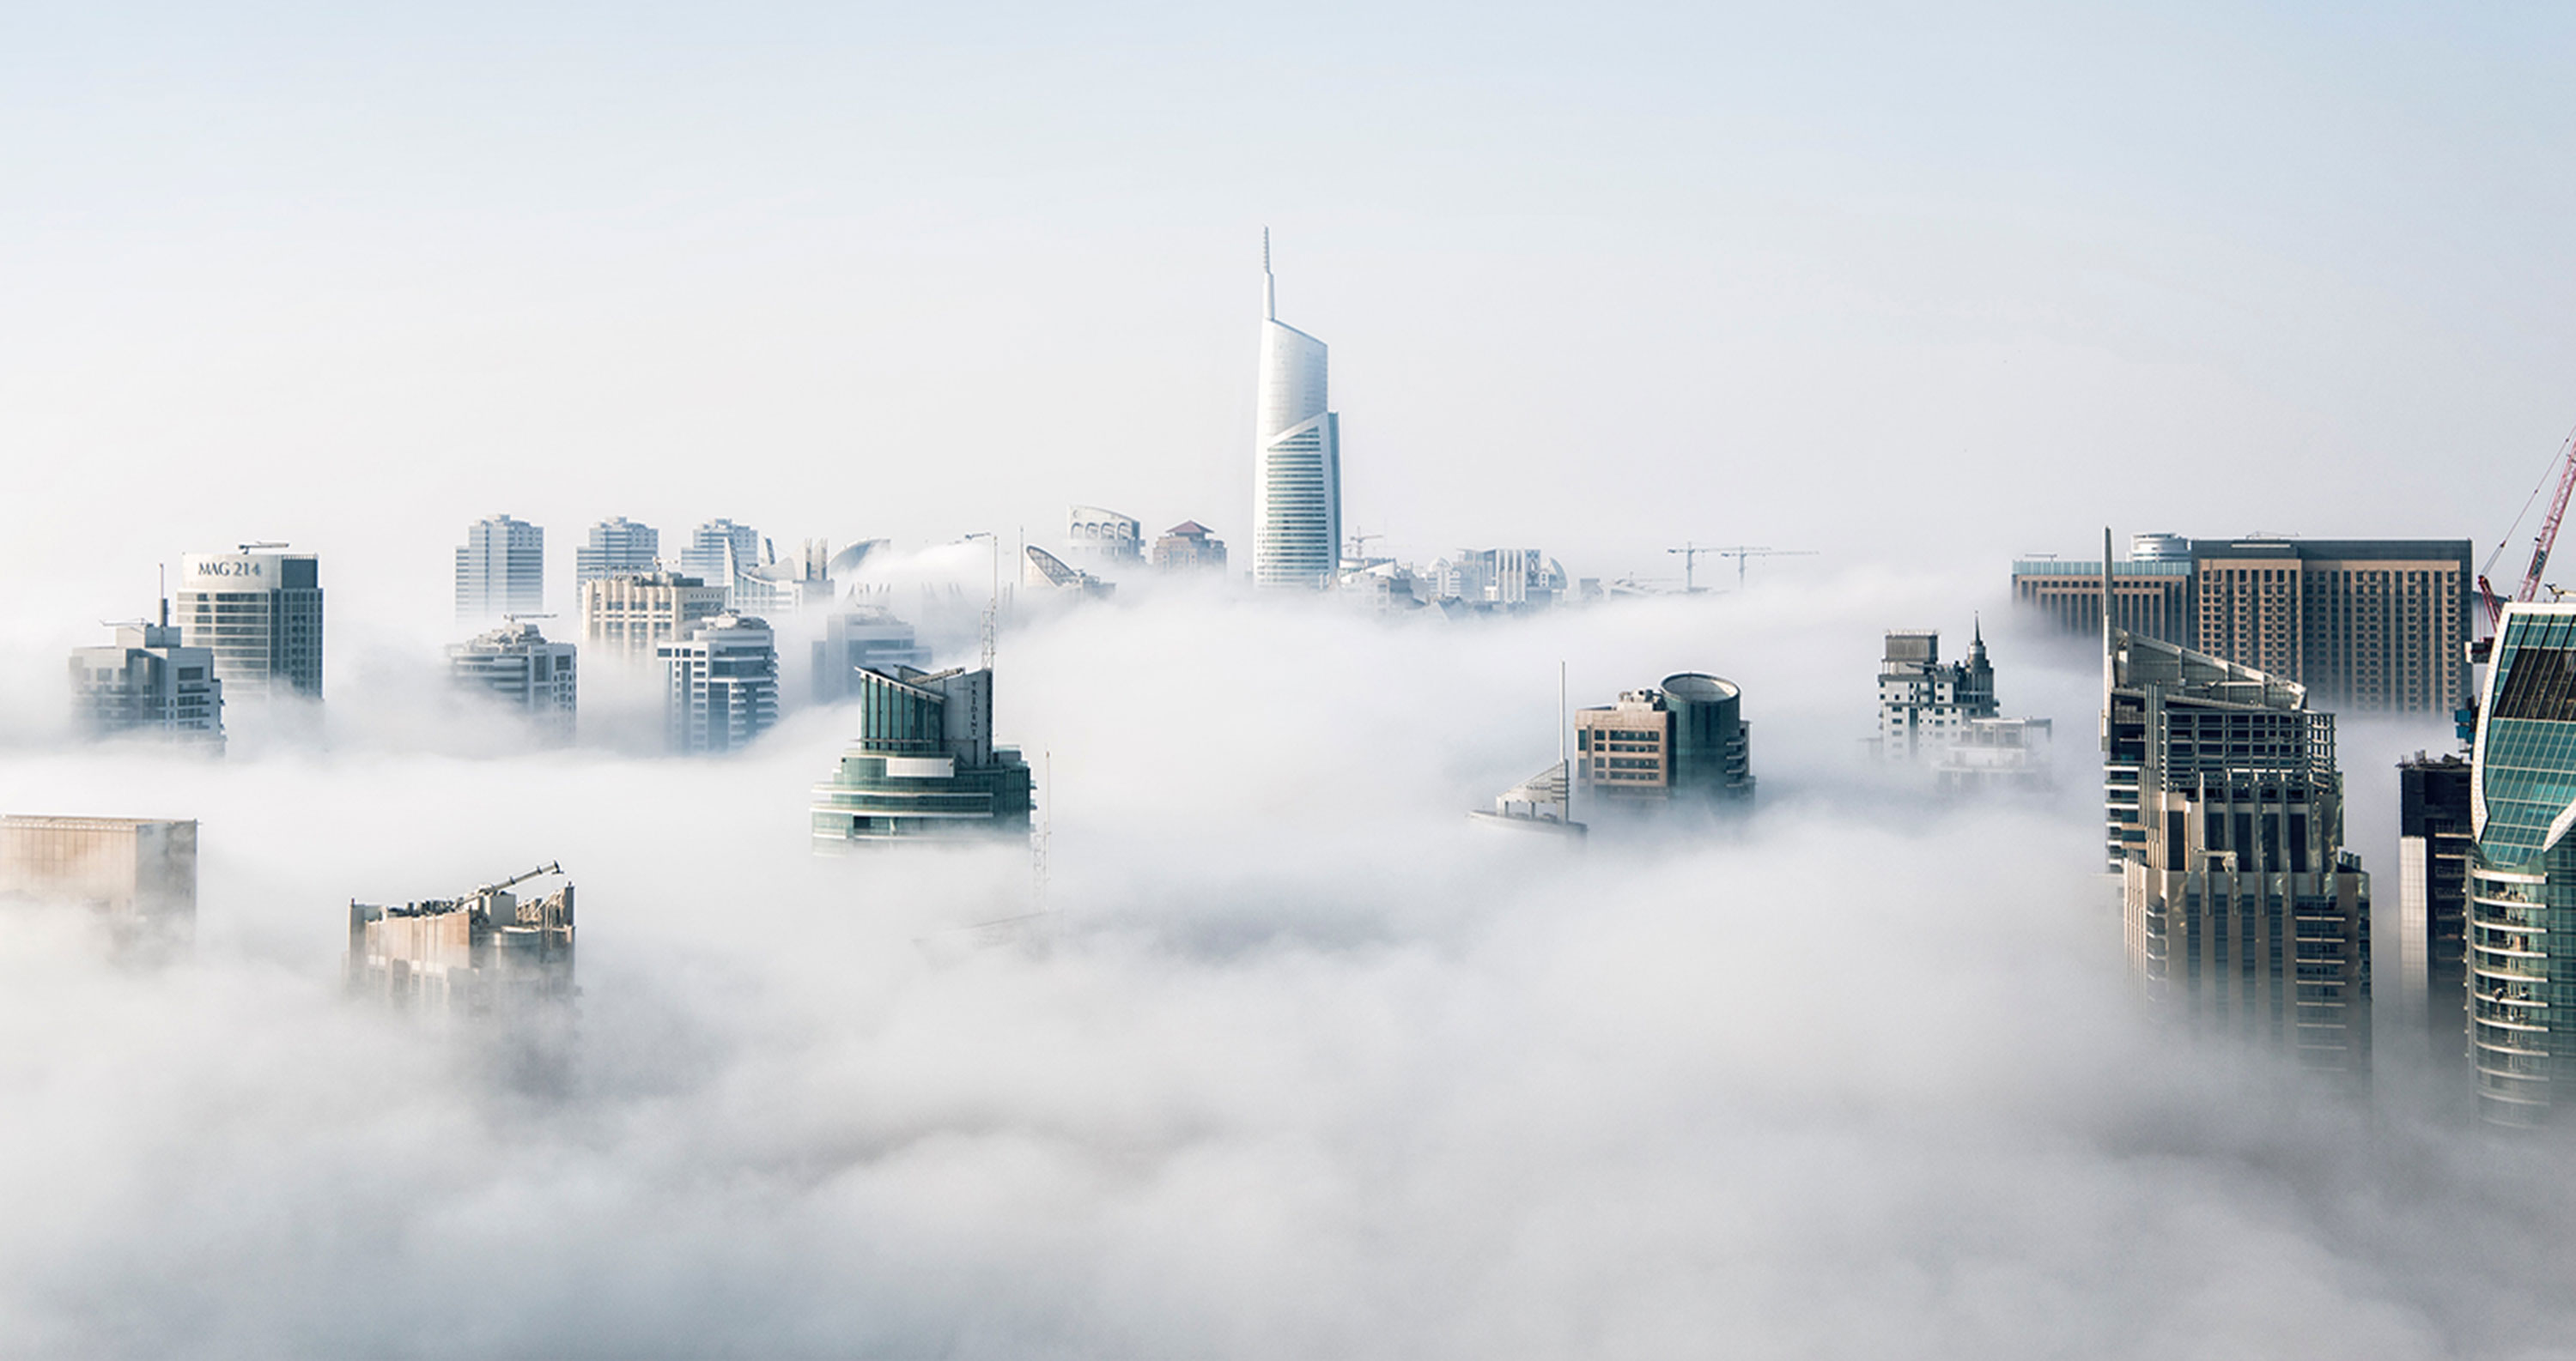
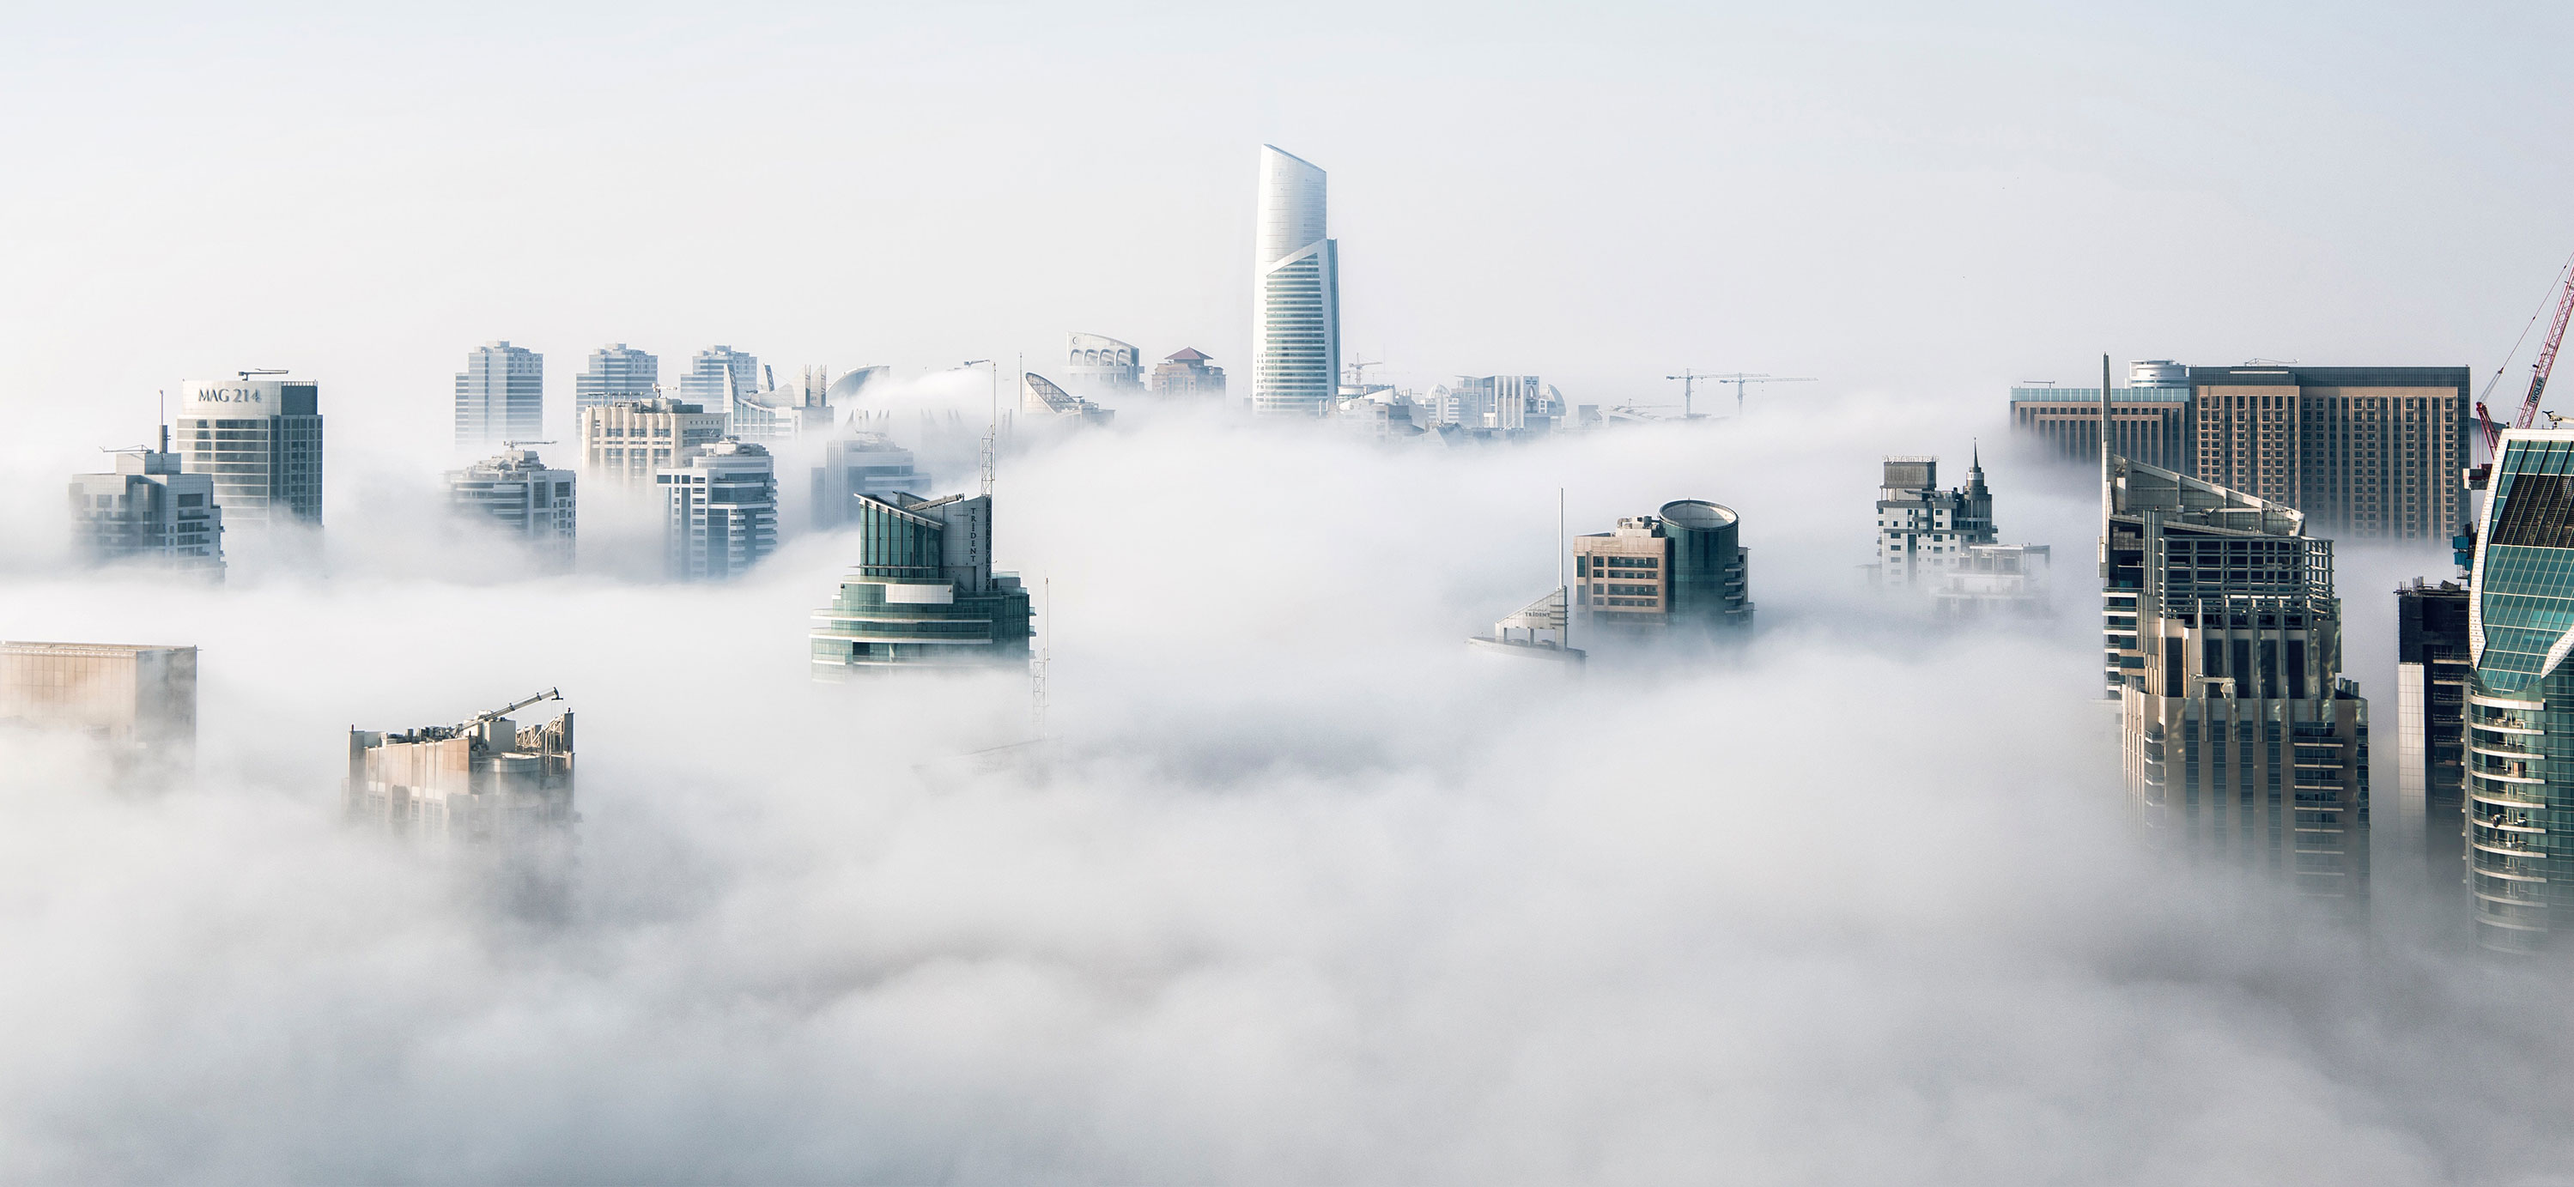
Better quality image in contact bg

diff --git a/_includes/block-contact-form.html b/_includes/block-contact-form.html
@@ -204,7 +204,7 @@
   .block-contact-form {
     background-image: url("{{ section.background_image | remove: '@2x' | relative_url }}");
   }
-  @media (-webkit-min-device-pixel-ratio: 2), (min-resolution: 192dpi) {
+  @media (-webkit-min-device-pixel-ratio: 2), (min-resolution: 192dpi), (min-width: 1600px) {
     .block-contact-form {
       background-image: url('{{ section.background_image | relative_url }}');
     }
